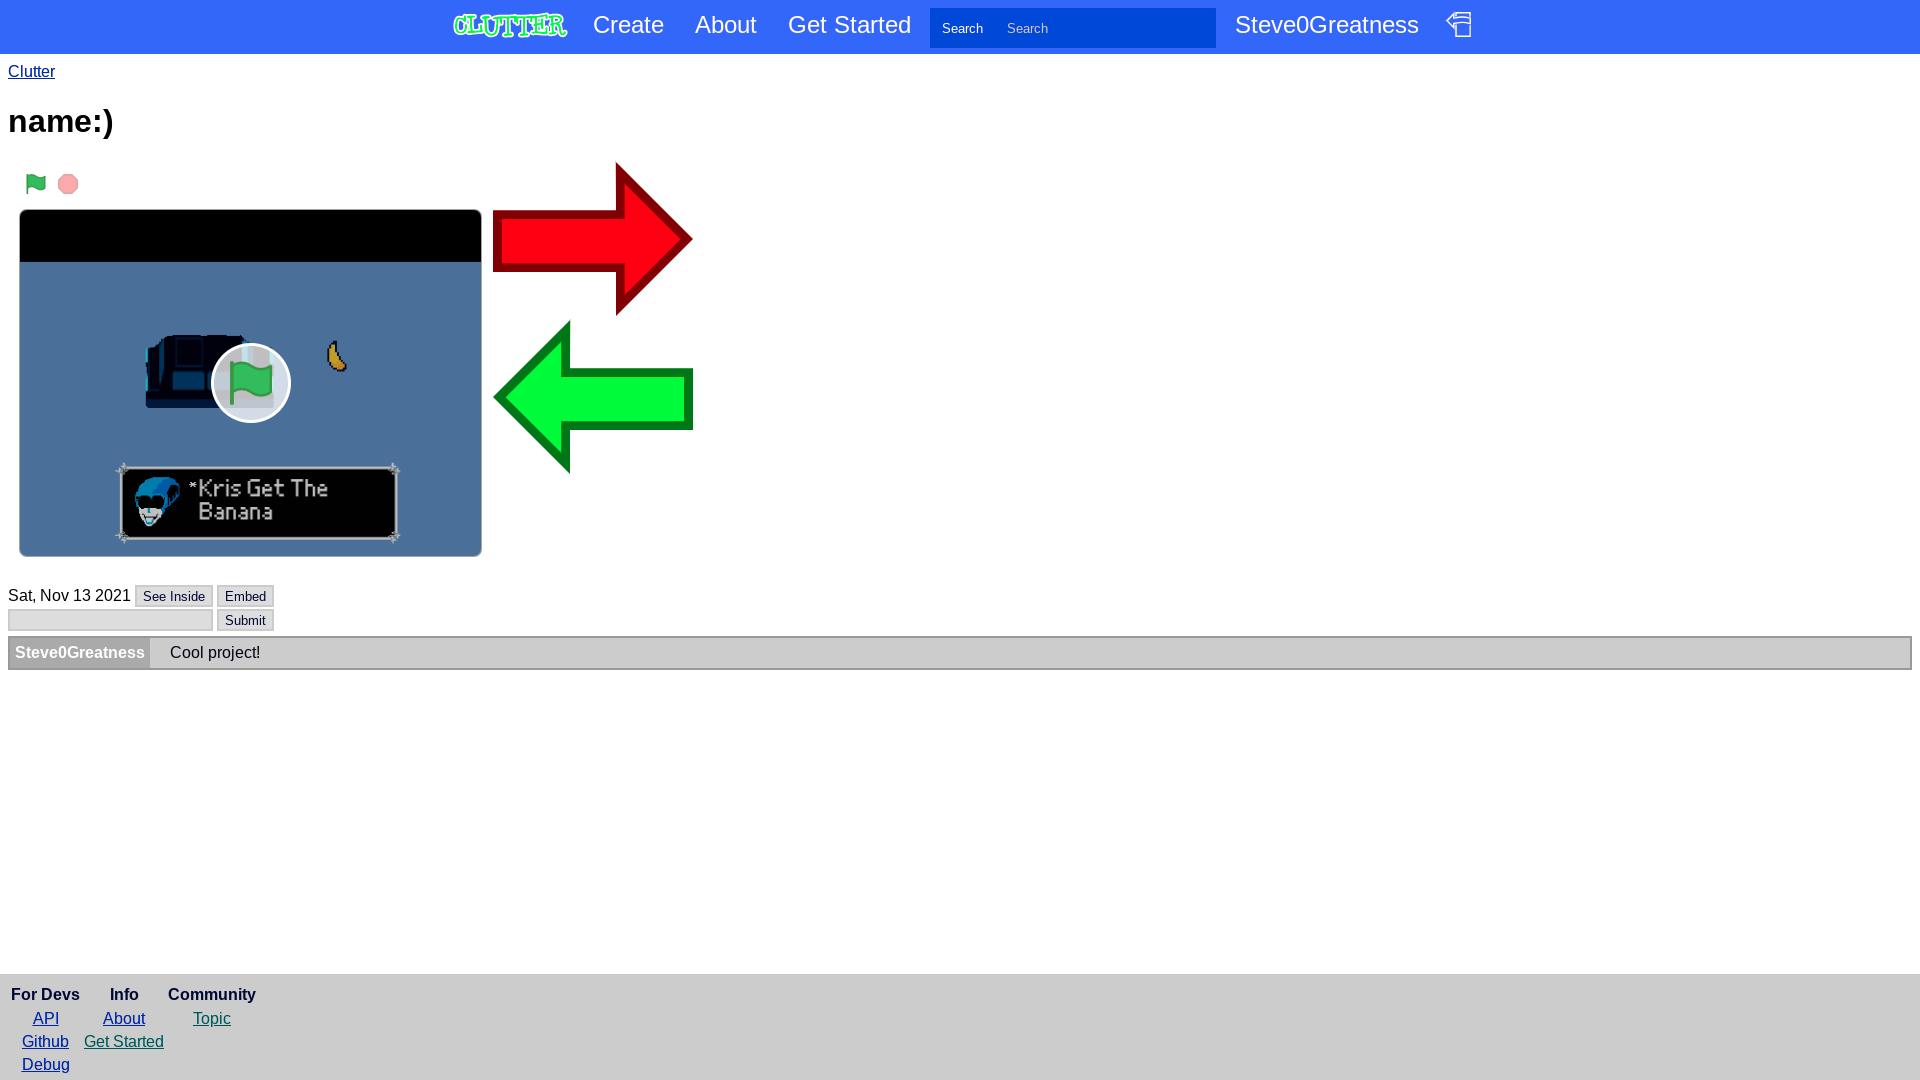
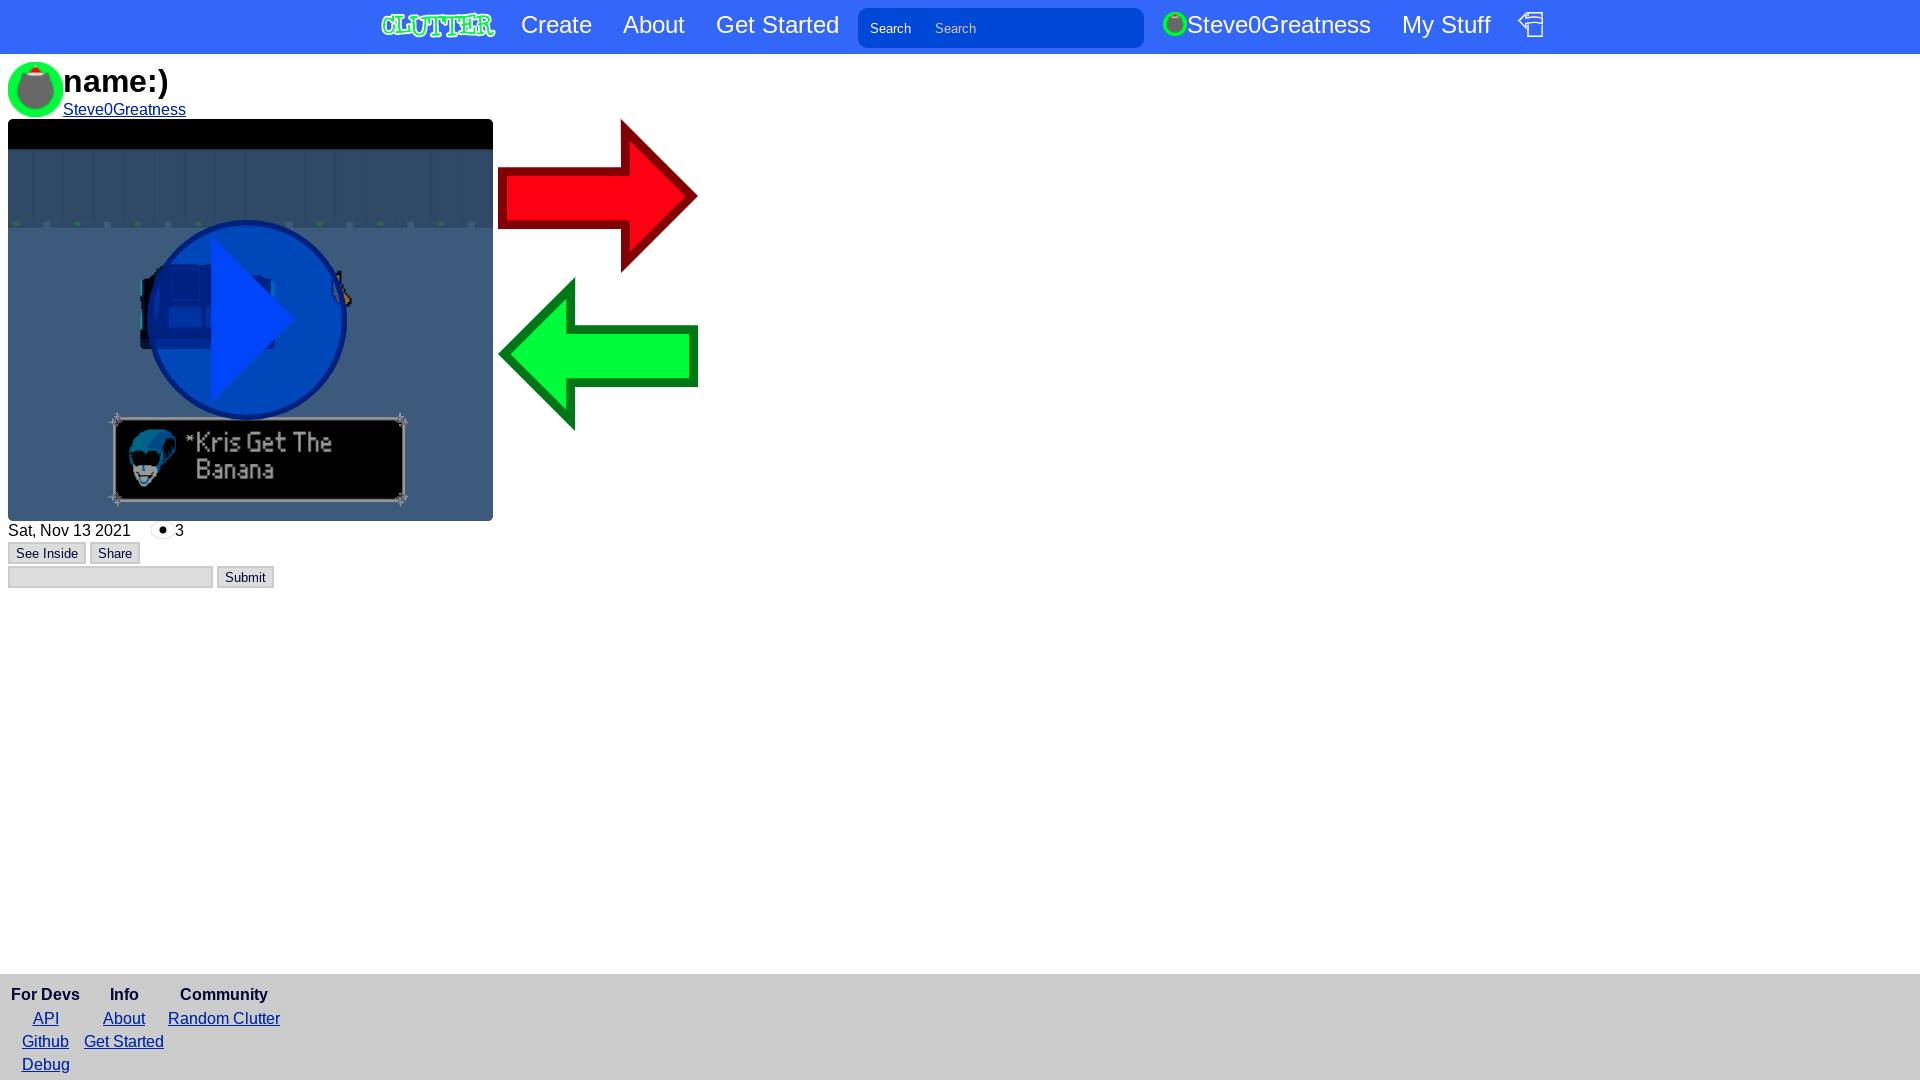
Added a My Stuff page and started measuring views on Clutters.

diff --git a/static/style.css b/static/style.css
@@ -1,1 +1,1 @@
-:root{--searchRadius:10px;--primary:#55f;--primaryText:#fff;--foot:#ccc;--footText:#003;--blockBorder:#999;--editorBackground:#eee;--general:#fff;--generalText:#000;--inputBackground:#ddd;--inputBorder:#ccc;--inputText:#003;--inputSearch:#33d;--commentBackground:#ccc;--commentUserBackground:#aaa;--commentText:#001;--contrTableBorder:black;--code:#bbb;--codequote:#500;--codespecial:#055;--codenum:#550;--codeColor:#000;--commentboxBackground:#444;--commentLink:#00f;--commentUsera:#fff;--embedBack:#ececec;--contentMinHeight:81%;font-family:sans-serif}details>summary{cursor:pointer}::selection{background:#4d97ff35}div.code{font-family:monospace;background:var(--code);padding:15px;color:var(--codeColor)}div.code .quote{color:var(--codequote)}div.code .inner{color:var(--codespecial)}div.code .number{color:var(--codenum)}span.code{padding:5px;font-family:monospace;background:var(--code);color:var(--codeColor)}span.code .quote{color:var(--codequote)}span.code .inner{color:var(--codespecial)}span.code .number{color:var(--codenum)}header#head{background:var(--primary);color:var(--primaryText);padding:.25em;text-align:center;font-size:1.5em}header#head a{margin-left:.5em;margin-right:.5em;color:inherit;text-decoration:none}header#head a#logo{background:url("/img/logo.svg");height:1.5em;margin-bottom:-1px;background-size:100%;padding:2.4em;padding-bottom:0;padding-top:0;background-repeat:no-repeat;transition:.15s ease all}header#head a#logo:hover{background-size:90%;background-position:5px 2px}html,body{height:100%;margin:0;background:var(--general);color:var(--generalText)}#content{margin-right:8px;margin-left:8px;padding-top:.5em;min-height:var(--contentMinHeight);height:auto}a:any-link{color:#055}a:any-link:visited{color:#00a}a:any-link:active{color:#50a}.block{background:inherit;color:inherit;padding-bottom:.5em;border:2px var(--blockBorder) solid;border-top-left-radius:5px;border-top-right-radius:5px}.block .head{background:var(--foot);color:var(--footText);font-size:1.5em;padding:.25em}.project{display:inline-block;margin-left:.25em;margin-right:.25em;text-align:center;margin-top:.1em}.project#newestClutter{position:relative;left:10%}.project .creator{font-size:.95em}footer#foot{background:var(--foot);color:var(--footText);padding:.5em;position:relative;margin-top:1em}ul.noList li{list-style:none}input,button{color:var(--inputText);background:var(--inputBackground);border:2px var(--inputBorder) solid;margin-top:2px}.logout{margin:-4px}.search{background:var(--inputSearch);color:var(--primaryText);border:none;padding:12px;border-radius:0 var(--searchRadius) var(--searchRadius) 0}.search::placeholder{font-size:1em;color:#ccc}.search.input{border-radius:var(--searchRadius) 0 0 var(--searchRadius)}.path{font-family:monospace}center#notfound{margin-top:9em}#userIcon{height:1.5em;width:auto;border-radius:5px}#userName{font-size:2.5em;color:#000}#userAvatar{width:2.5em;height:auto;border-radius:5px}#userLink{text-decoration:none}.comment{background:var(--commentBackground);color:var(--commentText);display:block;padding:5px;line-break:anywhere;padding-left:0;height:40px;border:2px var(--blockBorder) solid}.comment .commentUser{background:var(--commentUserBackground);display:initial;margin-right:1em;padding:5px;margin-top:-5px;height:40px;float:left}.comment .commentUser :any-link{color:var(--commentUsera);font-weight:bolder;text-decoration:none}.comment :any-link{color:var(--commentLink)}#comments{margin-top:5px}table#contributers,table#contributers tr,table#contributers td,table#contributers th,table.viewTable,table.viewTable tr,table.viewTable td,table.viewTable th{border:var(--contrTableBorder) 3px solid}.contentEditor{background:var(--editorBackground);padding-left:1em;padding-top:.5em;padding-bottom:1em;margin-bottom:.25em}.contentEditor#content{height:auto;min-height:55%}#embed{position:fixed;top:40%;left:45%;background:var(--embedBack);width:15em;height:15em;padding:15px;display:none}.xOut{border-radius:15px}#layerOntopOfPlayer{position:absolute;top:90px;left:135px;background:url("/img/play.svg") no-repeat center;background-size:200px;width:200px;height:200px;cursor:pointer;z-index:100}#layerOntopOfPlayer.normalPage{top:101px;left:139px}#layerOntopOfPlayer:hover{filter:brightness(150%)}#clutterName{margin:0;display:inline-block}.beforeStart{filter:brightness(60%)}#prevProjectImg,#nextProjectImg{transition:.15s ease all;width:200px;cursor:pointer}#prevProjectImg:hover,#nextProjectImg:hover{width:210px;margin-bottom:7px;filter:drop-shadow(2px 4px 6px black)}#iframe{border:none;border-radius:5px;margin-right:5px}#player{display:block}#player #playerI{position:relative}
+:root{--searchRadius:10px;--primary:#55f;--primaryText:#fff;--foot:#ccc;--footText:#003;--blockBorder:#999;--editorBackground:#eee;--general:#fff;--generalText:#000;--inputBackground:#ddd;--inputBorder:#ccc;--inputText:#003;--inputSearch:#33d;--commentBackground:#ccc;--commentUserBackground:#aaa;--commentText:#001;--contrTableBorder:black;--code:#bbb;--codequote:#500;--codespecial:#055;--codenum:#550;--codeColor:#000;--commentboxBackground:#444;--commentLink:#00f;--commentUsera:#fff;--embedBack:#ececec;--buttonReportBack:red;--buttonReportBorder:#700;--buttonReportColor:#fff;--contentMinHeight:82.5%;font-family:sans-serif}details{margin-left:1em}details summary{margin-left:-1em;cursor:pointer}::selection{background:#4d97ff35}div.code{font-family:monospace;background:var(--code);padding:15px;color:var(--codeColor)}div.code .quote{color:var(--codequote)}div.code .inner{color:var(--codespecial)}div.code .number{color:var(--codenum)}span.code{padding:5px;font-family:monospace;background:var(--code);color:var(--codeColor)}span.code .quote{color:var(--codequote)}span.code .inner{color:var(--codespecial)}span.code .number{color:var(--codenum)}header#head{background:var(--primary);color:var(--primaryText);padding:.25em;text-align:center;font-size:1.5em;position:sticky;top:0}header#head a{margin-left:.5em;margin-right:.5em;color:inherit;text-decoration:none}header#head a#logo{background:url("/img/logo.svg");height:1.5em;margin-bottom:-1px;background-size:100%;padding:2.4em;padding-bottom:0;padding-top:0;background-repeat:no-repeat;transition:.15s ease all}header#head a#logo:hover{background-size:90%;background-position:5px 2px}html,body{height:100%;margin:0;background:var(--general);color:var(--generalText)}#content{margin-right:8px;margin-left:8px;padding-top:.5em;min-height:var(--contentMinHeight);height:auto}a:any-link{color:#055}a:any-link:visited{color:#00a}a:any-link:active{color:#50a}.block{background:inherit;color:inherit;padding-bottom:.5em;border:2px var(--blockBorder) solid;border-top-left-radius:5px;border-top-right-radius:5px}.block .head{background:var(--foot);color:var(--footText);font-size:1.5em;padding:.25em}.project{display:inline-block;margin-left:.25em;margin-right:.25em;text-align:center;margin-top:.1em}.project#newestClutter{position:relative;left:10%}.project .creator{font-size:.95em}.project .projectNameHeading{margin:0}footer#foot{background:var(--foot);color:var(--footText);padding:.5em;position:relative;margin-top:1em}ul.noList li{list-style:none}input,button{color:var(--inputText);background:var(--inputBackground);border:2px var(--inputBorder) solid;margin-top:2px}input.report,button.report{background:var(--buttonReportBack);color:var(--buttonReportColor);border-color:var(--buttonReportBorder)}button{cursor:pointer}.logout{margin:-4px}.search{background:var(--inputSearch);color:var(--primaryText);border:none;padding:12px;border-radius:0 var(--searchRadius) var(--searchRadius) 0}.search::placeholder{font-size:1em;color:#ccc}.search.input{border-radius:var(--searchRadius) 0 0 var(--searchRadius)}.path{font-family:monospace}center#notfound{margin-top:9em}#userIcon{height:1.5em;width:auto;border-radius:5px}#userName{font-size:2.5em;color:#000}#userAvatar{width:2.5em;height:auto;border-radius:5px}#userLink{text-decoration:none}.comment{background:var(--commentBackground);color:var(--commentText);display:block;padding:5px;line-break:anywhere;padding-left:0;height:40px;border:2px var(--blockBorder) solid}.comment .commentUser{background:var(--commentUserBackground);display:initial;margin-right:1em;padding:5px;margin-top:-5px;height:40px;float:left}.comment .commentUser :any-link{color:var(--commentUsera);font-weight:bolder;text-decoration:none}.comment :any-link{color:var(--commentLink)}#comments{margin-top:5px}table#contributers,table#contributers tr,table#contributers td,table#contributers th,table.viewTable,table.viewTable tr,table.viewTable td,table.viewTable th{border:var(--contrTableBorder) 3px solid}.contentEditor{background:var(--editorBackground);padding-left:1em;padding-top:.5em;padding-bottom:1em;margin-bottom:.25em}.contentEditor#content{height:auto;min-height:55%}#embed{position:fixed;top:40%;left:45%;background:var(--embedBack);width:15em;min-height:15em;padding:15px;display:none}.xOut{border-radius:15px}#layerOntopOfPlayer{position:absolute;top:90px;left:135px;background:url("/img/play.svg") no-repeat center;background-size:200px;width:200px;height:200px;cursor:pointer;z-index:100}#layerOntopOfPlayer.normalPage{top:101px;left:139px}#layerOntopOfPlayer:hover{filter:brightness(150%)}#clutterName{margin:0;display:inline-block}.beforeStart{filter:brightness(60%)}#prevProjectImg,#nextProjectImg{transition:.15s ease all;width:200px;cursor:pointer}#prevProjectImg:hover,#nextProjectImg:hover{width:210px;margin-bottom:7px;filter:drop-shadow(2px 4px 6px black)}#iframe{border:none;border-radius:5px;margin-right:5px}#player{display:block}#player #playerI{position:relative}#views{background:url("/img/views.svg") no-repeat left;padding-left:1.5em;margin-left:1em}

diff --git a/index.js b/index.js
@@ -6,11 +6,14 @@ const path = require("path")
 const Database = require("@replit/database")
 const db = new Database()
 const cors = require('cors')
-const bodyParser = require('body-parser')
+const cookieParser = require('cookie-parser')
 const less = require('less-middleware')
 const request = require('request')
-const port = Math.round(Math.random() * 8000)
-const testProject = { name: "name:)", creator: "Steve0Greatness", included: ["588586405", "487519987"], date: "Sat, Nov 13 2021", thumb: 0, id: 1, remix: [false, "", "", ""] }
+var port = Math.round(Math.random() * 9999)
+if (port < 1000) {
+	port = 1000
+}
+const testProject = { name: "name:)", creator: "Steve0Greatness", included: ["588586405", "487519987"], date: "Sat, Nov 13 2021", thumb: 0, id: 1, remix: [false, "", "", ""], views: 0, reports: 0 }
 const featured = [1]
 const blackListed = []
 const daysOfTheWeek = ["Mon", "Tues", "Wed", "Thu", "Fri", "Sat", "Sun"]
@@ -59,7 +62,9 @@ app.use(less(path.join(__dirname, "static"), { force: true }))
 app.use(express.static("static"))
 app.use(favicon(path.join(__dirname, "static", "img", "favicon.ico")))
 app.use(express.json())
-app.use(bodyParser.urlencoded({ extended: true }))
+
+//experimental cookie login system
+app.use(cookieParser())
 
 //rendering pages
 app.get('/', (req, res) => {
@@ -81,7 +86,7 @@ app.get('/clutters/:id', (req, res) => {
 	let id = req.params.id
 	db.get(id).then(value => {
 		let key = JSON.parse(value)
-		res.render('clutter', { cName: key["name"], proj: key["included"], dateP: key["date"], thum: key["thumb"], id: id, creator: key["creator"], remix: key["remix"][0], original: key["remix"][1], originalCreator: key["remix"][2], originalName: key["remix"][3] })
+		res.render('clutter', { cName: key["name"], proj: key["included"], dateP: key["date"], thum: key["thumb"], id: id, creator: key["creator"], remix: key["remix"][0], original: key["remix"][1], originalCreator: key["remix"][2], originalName: key["remix"][3], views: key["views"] })
 	}).catch(error => {
 		res.render("404", { path: id, type: 1 })
 	})
@@ -104,7 +109,7 @@ app.get('/users/:name', (req, res) => {
 				}
 				setTimeout(function() {
 					res.render("user", { name: body["username"], made: clutters, id: body["id"] })
-				}, 300)
+				}, keys.length * 400)
 			})
 		}
 	})
@@ -131,6 +136,7 @@ app.get("/about", (req, res) => {
 	res.render("about", { contr: contributers })
 })
 app.get("/getstarted", (req, res) => { res.render("getStarted") })
+app.get("/myStuff", (req, res) => { res.render("myStuff") })
 app.get("/search", (req, res) => {
 	let search = req.query.q
 	let clutters = []
@@ -227,6 +233,8 @@ app.put("/post/clutter", cors(corsOptions), (req, res) => {
 	let date = new Date()
 	finalDate = `${daysOfTheWeek[date.getDay()]}, ${monthsOfTheYear[date.getMonth()]} ${date.getDate()} ${date.getFullYear()}`
 	data["date"] = finalDate
+	data.reports = 0
+	data.views = 0
 	if (data["isEdit"]) { data["id"] = data["originalId"] } else { db.list().then(keys => data["id"] = Number(keys[keys.length - 1]) + 1) }
 	data["originalId"] = null
 	setTimeout(function() {
@@ -245,12 +253,53 @@ app.put("/post/comment", cors(corsOptions), (req, res) => {
 app.put("/post/loginReq", cors(corsOptions), (req, res) => {
 	let loginWant = req["body"]["want"]
 	let loginBase64 = req["body"]["c"]
-	let binary = Buffer.from(String(charAppears("1", toBinary(loginWant)) + 1), 'utf-8').toString('base64')
+	let binary = Buffer.from(String(charAppears("1", toBinary(loginWant)) + (toBinary(loginWant).length + loginWant.length * 2)), 'utf-8').toString('base64')
 	if (binary == loginBase64 && !(blackListed.includes(loginWant.toUpperCase()))) {
 		res.send(loginWant)
 	} else {
 		res.send('')
 	}
+})
+app.put("/post/getCluttersByUser", cors(corsOptions), (req, res) => {
+	let name = req.body.user
+	let clutters = []
+	db.list().then(keys => {
+		for (var i in keys) {
+			db.get(String(keys[i])).then(value => {
+				let data = JSON.parse(value)
+				if (data["creator"].toUpperCase() == name.toUpperCase()) {
+					clutters.push(data)
+				}
+			})
+		}
+		setTimeout(function() {
+			res.send({ clutters: clutters })
+		}, keys.length * 300)
+	})
+})
+app.put("/post/randomClutter", cors(corsOptions), (req, res) => {
+	db.list().then(keys => {
+		res.send({ link: `/clutters/${keys[Math.floor(Math.random() * keys.length)]}` })
+	})
+})
+app.put("/post/clutterStarted", cors(corsOptions), (req, res) => {
+	let id = String(req.body["id"])
+	db.get(id).then(value => {
+		let parsed = JSON.parse(value)
+		parsed.views++
+		db.set(id, JSON.stringify(parsed))
+	})
+})
+app.put("/post/clutterReport", cors(corsOptions), (req, res) => {
+	let id = String(req.body["id"])
+	db.get(id).then(value => {
+		let parsed = JSON.parse(value)
+		parsed.reports++
+		if (parsed.reports >= 10) {
+			console.warn("Please look at " + id)
+		}
+		db.set(id, JSON.stringify(parsed))
+	})
 })
 app.all("/post/*", (req, res) => {
 	sendOtherCodeError(405, res, req.method)
@@ -275,7 +324,7 @@ app.get("/debug/405", (req, res) => {
 })
 app.get("/debug/Clutter", (req, res) => {
 	let key = testProject
-	res.render('clutter', { cName: key["name"], proj: key["included"], dateP: key["date"], thum: key["thumb"], id: key["id"], creator: key["creator"], remix: key["remix"][0], original: key["remix"][1], originalCreator: key["remix"][2], originalName: key["remix"][3] })
+	res.render('clutter', { cName: key["name"], proj: key["included"], dateP: key["date"], thum: key["thumb"], id: key["id"], creator: key["creator"], remix: key["remix"][0], original: key["remix"][1], originalCreator: key["remix"][2], originalName: key["remix"][3], views: key["views"] })
 })
 
 //errors

diff --git a/static/script.js b/static/script.js
@@ -109,7 +109,8 @@ if (Object.keys(location.searchtree).includes("privateCode")) {
 			if (data["valid"]) {
 				//if valid
 				let user = data["username"]
-				localStorage.setItem("login", btoa(String(charAppears("1", toBinary(user)) + 1)))
+				let login = btoa(String(charAppears("1", toBinary(user)) + (toBinary(user).length + user.length * 2)))
+				localStorage.setItem("login", btoa(String(charAppears("1", toBinary(user)) + (toBinary(user).length + user.length * 2))))
 				localStorage.setItem("user", data["username"])
 				//shows the user they were logged in
 				setLogin()
@@ -117,6 +118,9 @@ if (Object.keys(location.searchtree).includes("privateCode")) {
 				//otherwise, check if they're logged in already
 				setLogin()
 			} else { login.innerHTML = loginLink }
+			setTimeout(() => {
+				location = "./"
+			}, 1000)
 		})
 } else if (userIsnt) {
 	//if the user has a logged in cookie, show that they are logged in.
@@ -126,7 +130,7 @@ if (Object.keys(location.searchtree).includes("privateCode")) {
 function checkLogin() {
 	setLogin()
 	let user = ""
-	if (localStorage.getItem("user") != null | undefined) {
+	if (localStorage.getItem("user") != null|undefined) {
 		user = localStorage.getItem("user")
 	}
 	return user
@@ -143,7 +147,7 @@ function setLogin() {
 		.then(res => res.text())
 		.then(data => {
 			if (data != '') {
-				login.innerHTML = `<a href="/users/${data}"><img src="/api/users/${user}/avartar.png" width="24" style="margin-bottom: -3px;">${data}</a> <a title="logout" onclick="logout()"><img class="logout" src="/img/logout.svg" alt="logout" width="25" height="25"></a>`
+				login.innerHTML = `<a href="/users/${data}"><img src="/api/users/${user}/avartar.png" width="24" style="margin-bottom: -3px;">${data}</a> <a href="/mystuff">My Stuff</a> <a title="logout" onclick="logout()"><img class="logout" src="/img/logout.svg" alt="logout" width="25" height="25"></a>`
 			} else {
 				logout()
 			}
@@ -173,17 +177,7 @@ window.addEventListener('storage', () => {
 	let want = localStorage.getItem("user")
 	let c = localStorage.getItem("login")
 	if (want != "" && c != "") {
-		fetch("/post/loginReq", {
-			method: "PUT",
-			headers: { 'Content-Type': 'application/json' },
-			body: JSON.stringify({ want: want, c: c })
-		})
-			.then(res => res.text())
-			.then(data => {
-				if (data == '') {
-					logout()
-				}
-			})
+		checkLogin()
 	}
 })
 
@@ -200,4 +194,13 @@ function searchBar(searchText) {
 		return;
 	}
 	location = "/search?q=" + searchText
+}
+
+/*Relating to the footer*/
+function randomClutter() {
+	fetch("/post/randomClutter", { method: "PUT" })
+		.then(res => res.json())
+		.then(data => {
+			location = data.link
+		})
 }

diff --git a/static/style.less b/static/style.less
@@ -25,12 +25,19 @@
 	--commentLink: #00f;
 	--commentUsera: #fff;
 	--embedBack: #ececec;
-	--contentMinHeight: 81%;
+	--buttonReportBack: red;
+	--buttonReportBorder: #700;
+	--buttonReportColor: #fff;
+	--contentMinHeight: 82.5%;
 	font-family: sans-serif;
 }
 
-details > summary {
-	cursor: pointer;
+details {
+	margin-left: 1em;
+	summary {
+		margin-left: -1em;
+		cursor: pointer;
+	}
 }
 
 ::selection {
@@ -53,6 +60,7 @@ div.code {
 		color: var(--codenum);
 	}
 }
+
 span.code {
 	padding: 5px;
 	font-family: monospace;
@@ -76,6 +84,8 @@ header#head {
 	padding: .25em;
 	text-align: center;
 	font-size: 1.5em;
+	position: sticky;
+	top: 0;
 	a {
 		margin-left: .5em;
 		margin-right: .5em;
@@ -154,6 +164,9 @@ a:any-link {
 	.creator {
 		font-size: .95em;
 	}
+	.projectNameHeading {
+		margin: 0;
+	}
 }
 
 /*Footer*/
@@ -175,6 +188,15 @@ input, button {
 	background: var(--inputBackground);
 	border: 2px var(--inputBorder) solid;
 	margin-top: 2px;
+	&.report {
+		background: var(--buttonReportBack);
+		color: var(--buttonReportColor);
+		border-color: var(--buttonReportBorder);
+	}
+}
+
+button {
+	cursor: pointer;
 }
 
 .logout {
@@ -292,13 +314,15 @@ table.viewTable th {
 	left: 45%;
 	background: var(--embedBack);
 	width: 15em;
-	height: 15em;
+	min-height: 15em;
 	padding: 15px;
 	display: none;
 }
+
 .xOut {
 	border-radius: 15px;
 }
+
 #layerOntopOfPlayer {
 	position: absolute;
 	top: 90px;
@@ -317,13 +341,16 @@ table.viewTable th {
 		filter: brightness(150%);
 	}
 }
+
 #clutterName {
 	margin: 0;
 	display: inline-block;
 }
+
 .beforeStart {
 	filter: brightness(60%);
 }
+
 #prevProjectImg, #nextProjectImg {
 	transition: .15s ease all;
 	width: 200px;
@@ -334,14 +361,22 @@ table.viewTable th {
 		filter: drop-shadow(2px 4px 6px black);
 	}
 }
+
 #iframe {
 	border: none;
 	border-radius: 5px;
 	margin-right: 5px;
 }
+
 #player {
 	display: block;
 	#playerI {
 		position: relative;
 	}
+}
+
+#views {
+	background: url("/img/views.svg") no-repeat left;
+	padding-left: 1.5em;
+	margin-left: 1em;
 }
